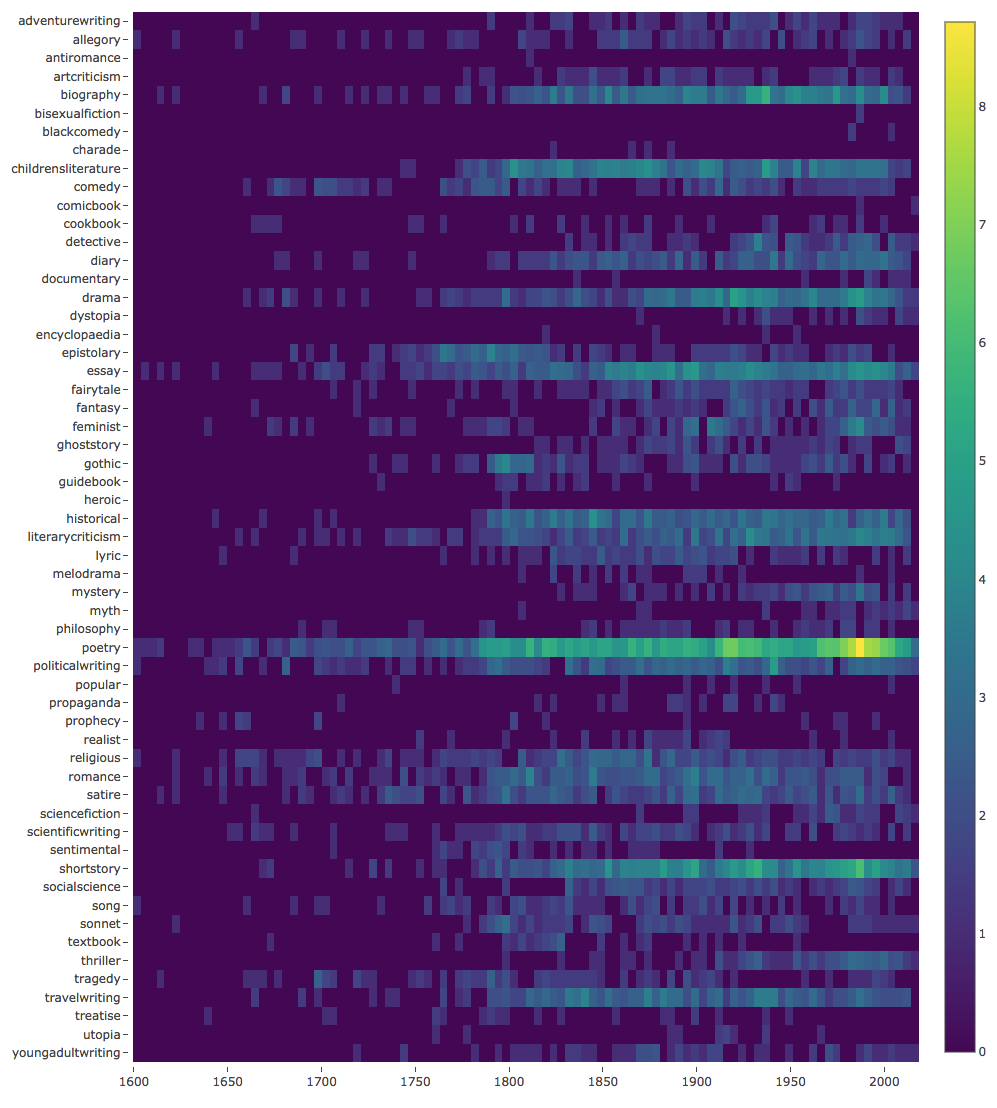
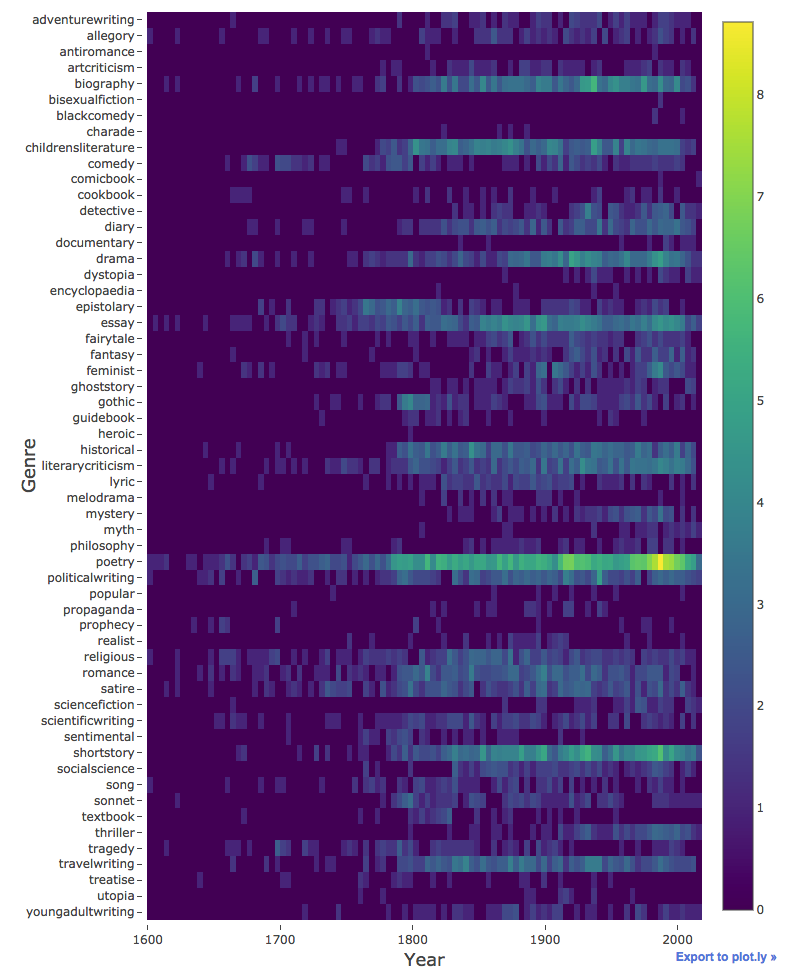
put Susan's team's corrections into humanities.md

diff --git a/menu/humanities.md b/menu/humanities.md
@@ -22,7 +22,8 @@ digitized versions of primary texts.
 
 The internal linking of biographical information is using the
 [Canadian Writing Research Collaboratory (CWRC) ontology](http://sparql.cwrc.ca/ontology/cwrc.html), with
-selective linking out to other ontology terms and linked data entities.
+selective linking out to other ontology terms and linked data entities. The dataset makes extensive use
+of the Web Annotation Data model, the Simple Event Model, and the BIBFRAME ontology.
 
 ## How to read the data
 
@@ -75,7 +76,7 @@ hippopotamus is of species Hippopotamus amphibius
 hippopotamus is of class Mammal
 ```
 
-These triples completely describes all information stored in the RDF-XML file, in a human-readable
+These triples completely describe all information stored in the RDF-XML file, in a human-readable
 form. You can also list all predicates of a given subject
 
 ```python
@@ -106,16 +107,34 @@ original RDF. Note that the source RDF file takes much less space then the resul
 
 ### Competition data
 
-The competition dataset contains 5475 files across three directories
+The competition dataset contains 5475 files across three directories:
 
-```bash
-Bibliography/ Biography/ CulturalForms/
-```
+1. `Biography` contains most biographical information from the Orlando dataset falling into one of the
+   categories in the table below, as well as biographical materials that don't align easily with the
+   specified categories.
+1. `CulturalForms` is a subset of `Biography` focused on social identities.
+1. `Bibliography` stores standard bibliographic metadata using the Bibframe ontology, including data
+   about works published by the authors whose lives are described in the dataset, plus all works
+   referenced in the Orlando textbase.
 
-Some of the files are stored in both RDF-XML and RDF-TTL formats, so you can choose the format you
-like. In addition to using separate generators `g.subjects()`, `g.predicates()`, `g.objects()` as
-outlined above, you can also list triples that match a given pattern, e.g., a given subject with all
-possible predicates and objects:
+| Category | Description |
+| ------------- | --------------- |
+| Birth and Death | Birth and death dates for writers for whom these are known, in some cases including birth order within family and cause of death |
+| Cultural identities | Information on the social identities associated with writers, ranging from language, religion, social class, race, colour, or ethnicity to nationality. Such identities shift both historically and at times within writers’ lives |
+| Family relations | Information on the family members, including spouses, of writers, and at times information related to their occupations or cultural identities |
+| Friends | Information about loose associations through to close and enduring friendships |
+| Intimate relationships | Information on both erotic and non-erotic ties |
+| Leisure and Society | Information on social activities |
+| Political Affiliation | Information on writers’ political activities including their affiliations with particular groups or organizations and their degrees of involvement |
+| Spatial activities | Information on writers’ visits and travels to particular locations; does not include residences or migration |
+| Violence | Information on writers’ experiences of violence on a range of scales |
+| Wealth | Information concerning writers’ poverty, income, and wealth |
+| Health | Information on writers’ physical and mental health and illnesses |
+
+The files are stored in both RDF-XML and RDF-TTL formats, so you can choose the format you like. In
+addition to using separate generators `g.subjects()`, `g.predicates()`, `g.objects()` as outlined above,
+you can also list triples that match a given pattern, e.g. a given subject with all possible predicates
+and objects:
 
 ```python
 # list all predicates and objects of a given subject
@@ -123,8 +142,8 @@ for s, p, o in g.triples((URIRef("http://cwrc.ca/cwrcdata/Abdy_Maria"), None, No
     print(p, o)
 ```
 
-The bibliography file `Bibliography.ttl` is actually a RDF-TTL file, and you can read it with
-RDFLib specifying the format explicitly
+The bibliography file `Bibliography.ttl` provides the data using Terse RDF Triple Language (TTL), and you
+can read it with RDFLib specifying the format explicitly:
 
 ```python
 from rdflib import Graph
@@ -134,8 +153,8 @@ result = g.parse("Bibliography/Bibliography.ttl", format="ttl")
 
 For the list of variables, their description, and how they interact with each other, it is best to
 consult the [CWRC Ontology Specification](http://sparql.cwrc.ca/ontology/cwrc.html) and the
-[CWRC preamble](http://sparql.cwrc.ca/ontologies/cwrc-preamble-EN.html). The dataset also adops some
-external namespaces, classes and terms listed
+[CWRC preamble](http://sparql.cwrc.ca/ontologies/cwrc-preamble-EN.html). The dataset also adopts some
+external namespaces, classes, and terms listed
 [here](http://sparql.cwrc.ca/ontologies/cwrc-preamble-EN.html#linkages). At the beginning of each RDF
 file you will find all the external vocabularies that are used in that file, e.g.
 
@@ -235,9 +254,10 @@ a given time bin, with 100 bins covering the years 1600-2018.
 
 ![alt text]({{ site.baseurl }}/assets/img/genres.png "Genres over time")
 
-This plot has many shortcomings. For example, it includes newer editions of older books. One way to
-correct this would be to eliminate any works that were published not during an author's life. To do this,
-you will need to use files in `Biography/` folder.
+This plot has many shortcomings. For example, it represents absolute and not relative frequency, and it
+includes newer editions of older books. One way to correct this latter shortcoming would be to eliminate
+any works that were not published during an author's life. To do this, you will need to use files in
+`Biography/` folder.
 
 ```python
 from rdflib import Graph, URIRef
@@ -305,7 +325,7 @@ frequency = np.sqrt(frequency)
 years = [(i+0.5)/float(nbins)*(end-start+1)+start-0.5 for i in range(nbins)]
 trace = go.Heatmap(z=frequency, x=years, y=filteredTopics, colorscale='Viridis')
 data = [trace]
-layout = go.Layout(margin=go.Margin(l=150,r=50,b=100,t=100,pad=4))
+layout = go.Layout(margin=go.Margin(l=150,r=50,b=50,t=10,pad=4), xaxis=dict(title='Year',titlefont=dict(size=18)), yaxis=dict(title='Genre',titlefont=dict(size=18)))
 fig = go.Figure(data=data, layout=layout)
 py.plot(fig, filename='genres.html')
 ```
